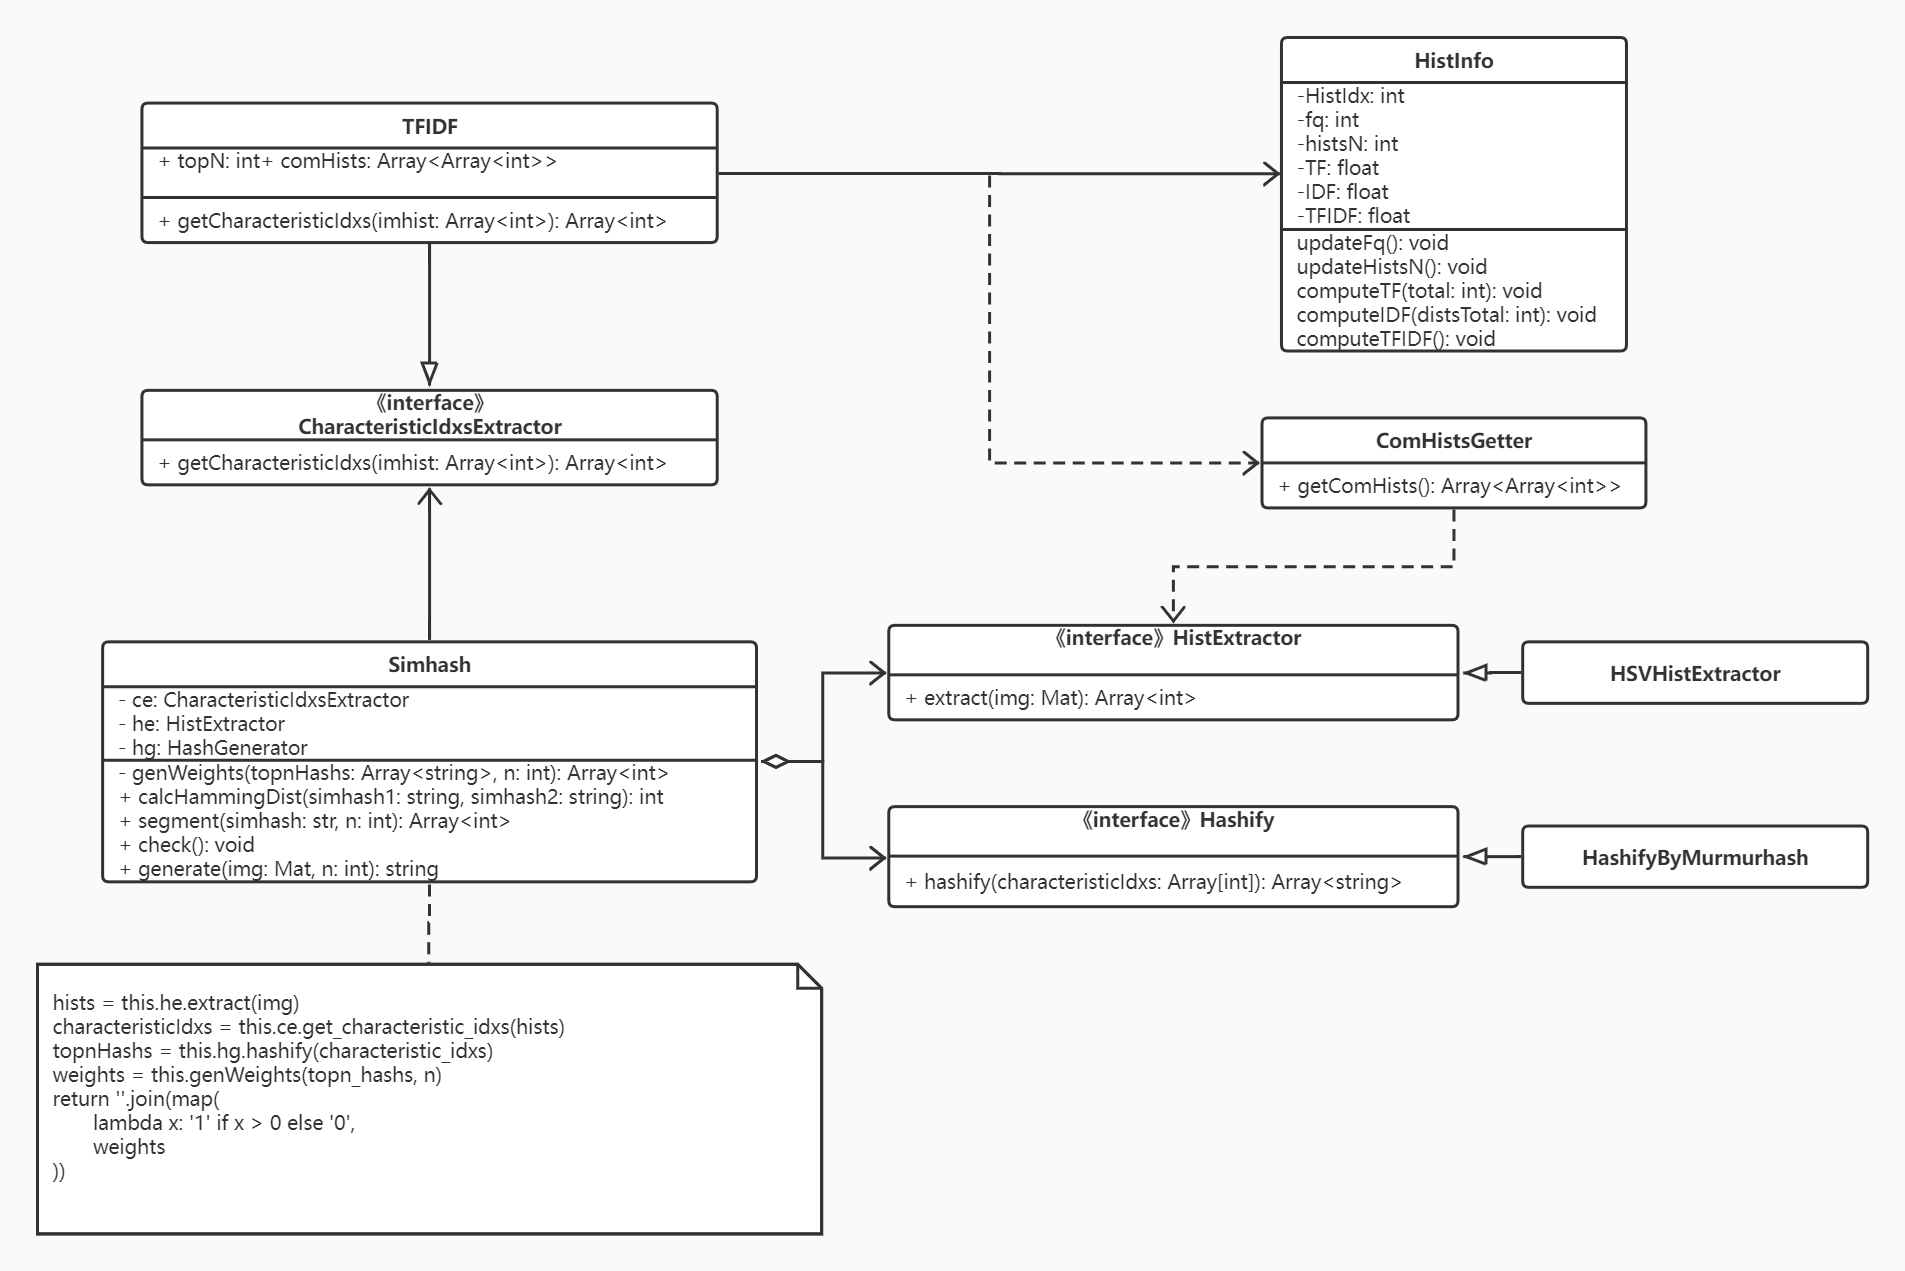
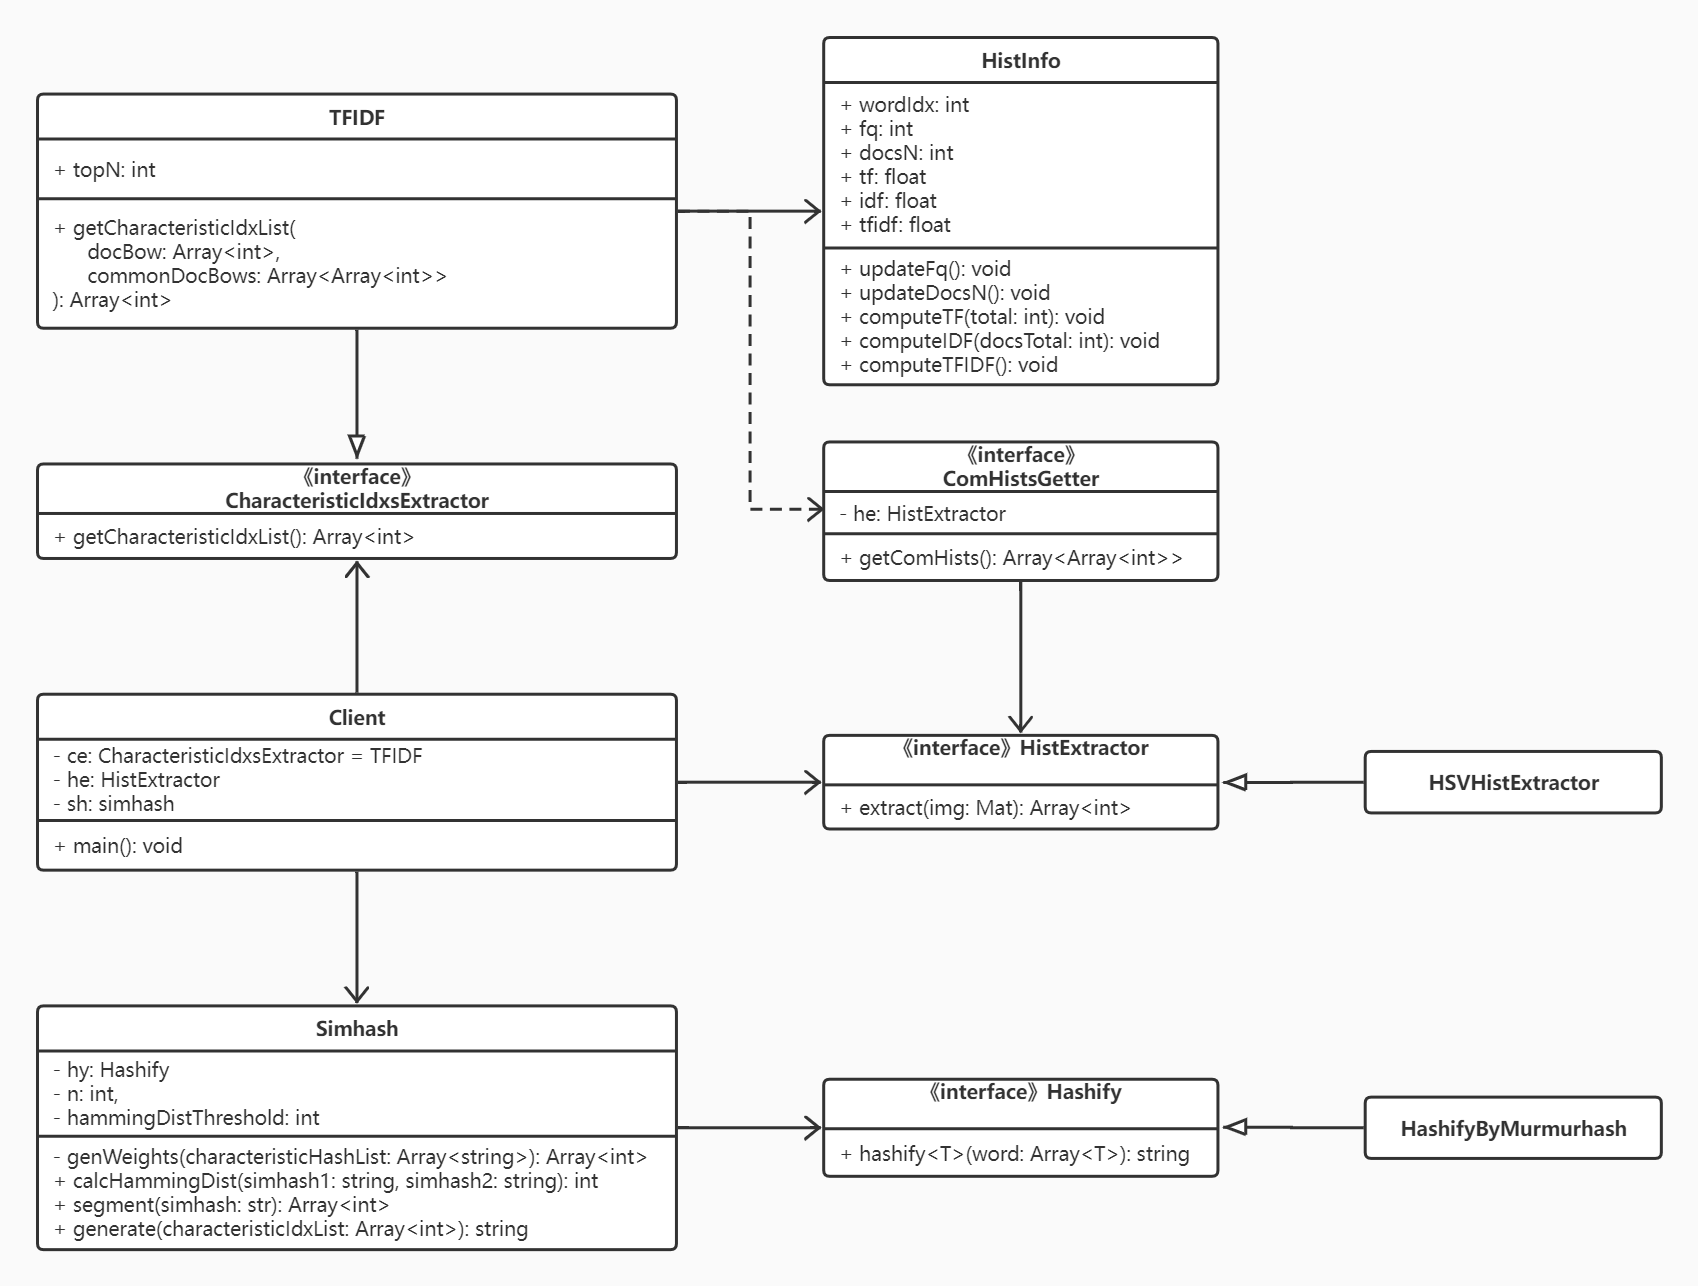
update

diff --git a/src/core/TFIDF.py b/src/core/TFIDF.py
@@ -9,23 +9,23 @@ class WordInfo(object):
     def __init__(self, word_idx: int):
         self.word_idx = word_idx
         self.fq = 0
-        self.docs_n = 0
+        self.docs_n = 0  # How many documents contain this word.
         self.tf = 0.00
         self.idf = 0.00
         self.tf_idf = 0.00
-  
+
     def update_fq(self, n: int) -> None:
         self.fq += n
-    
+
     def update_docs_n(self) -> None:
         self.docs_n += 1
-    
+
     def compute_tf(self, total: int) -> None:
         self.tf = self.fq / total
-    
-    def compute_idf(self, hists_total: int) -> None:
-        self.idf = log(hists_total / (self.docs_n + 1), 2)
-    
+
+    def compute_idf(self, docs_total: int) -> None:
+        self.idf = log(docs_total / (self.docs_n + 1), 2)
+
     def compute_tfidf(self) -> None:
         self.tf_idf = self.tf * self.idf
 

diff --git a/src/core/simhash.py b/src/core/simhash.py
@@ -4,11 +4,11 @@ from src.asserts import equal_length_assert
 
 
 class Simhash(object):
-    def __init__(self, hashify: Callable, n: int, hamming_dist_threshold: int) -> None:
+    def __init__(self, hashify: Callable, n_bits: int, hamming_dist_threshold: int) -> None:
         if hashify is None:
             raise Exception('hashify is required argument')
         self.hashify = hashify
-        self.n_bits = n
+        self.n_bits = n_bits
         self.hamming_dist_threshold = hamming_dist_threshold
 
     def generate(self, characteristic_idx_list: List[int]) -> str:
